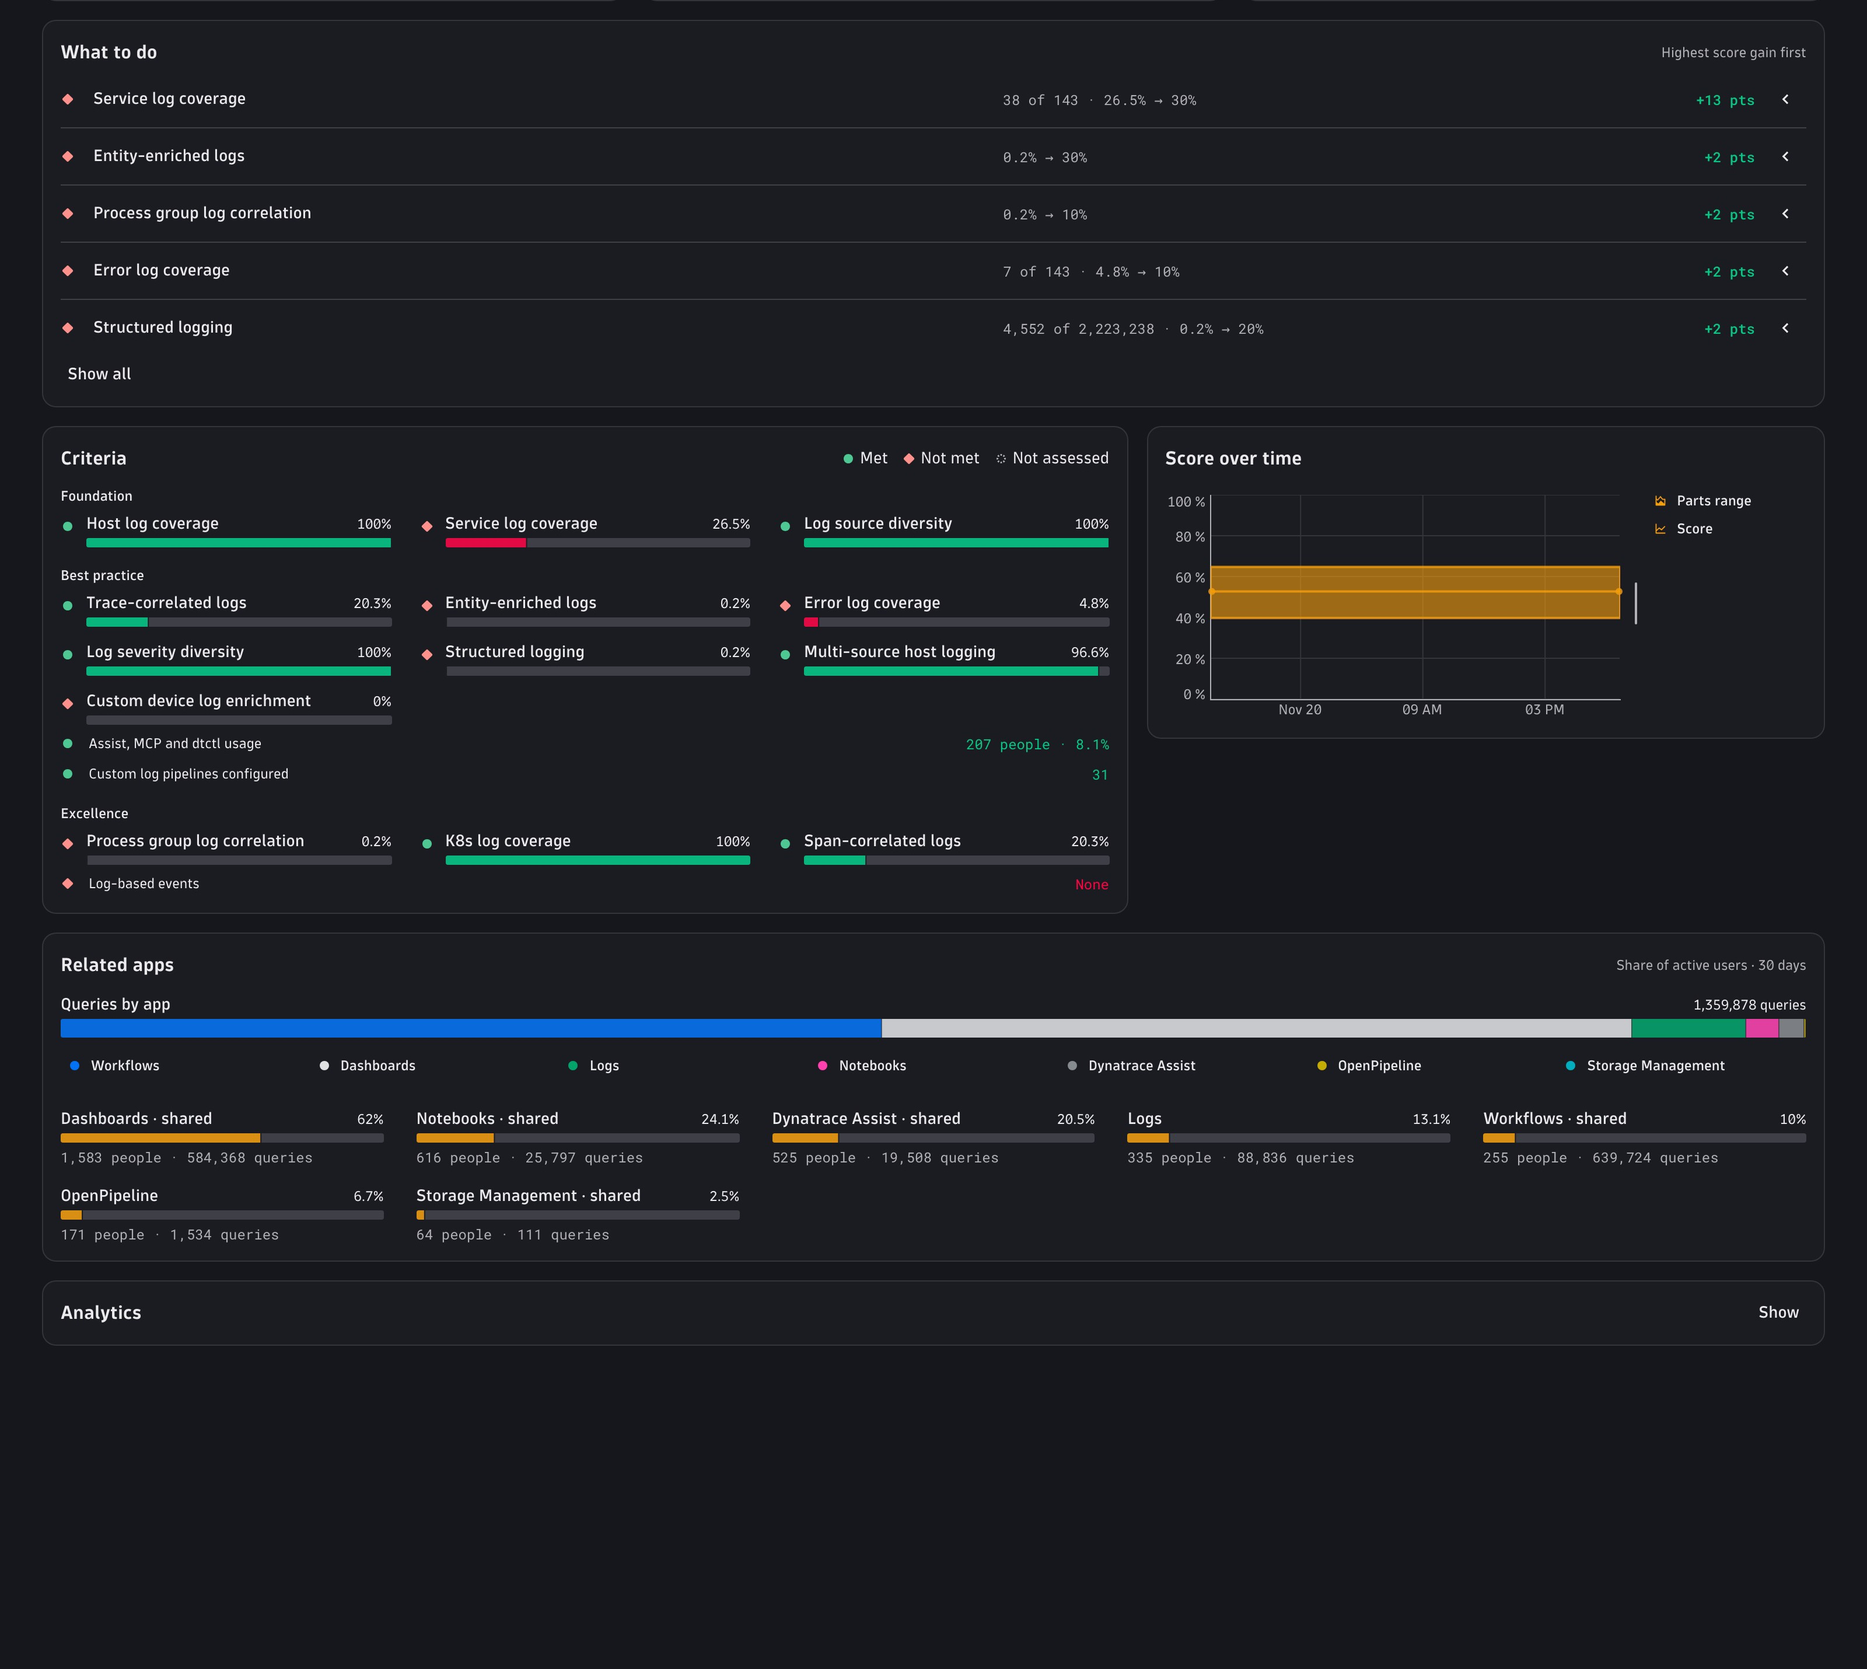
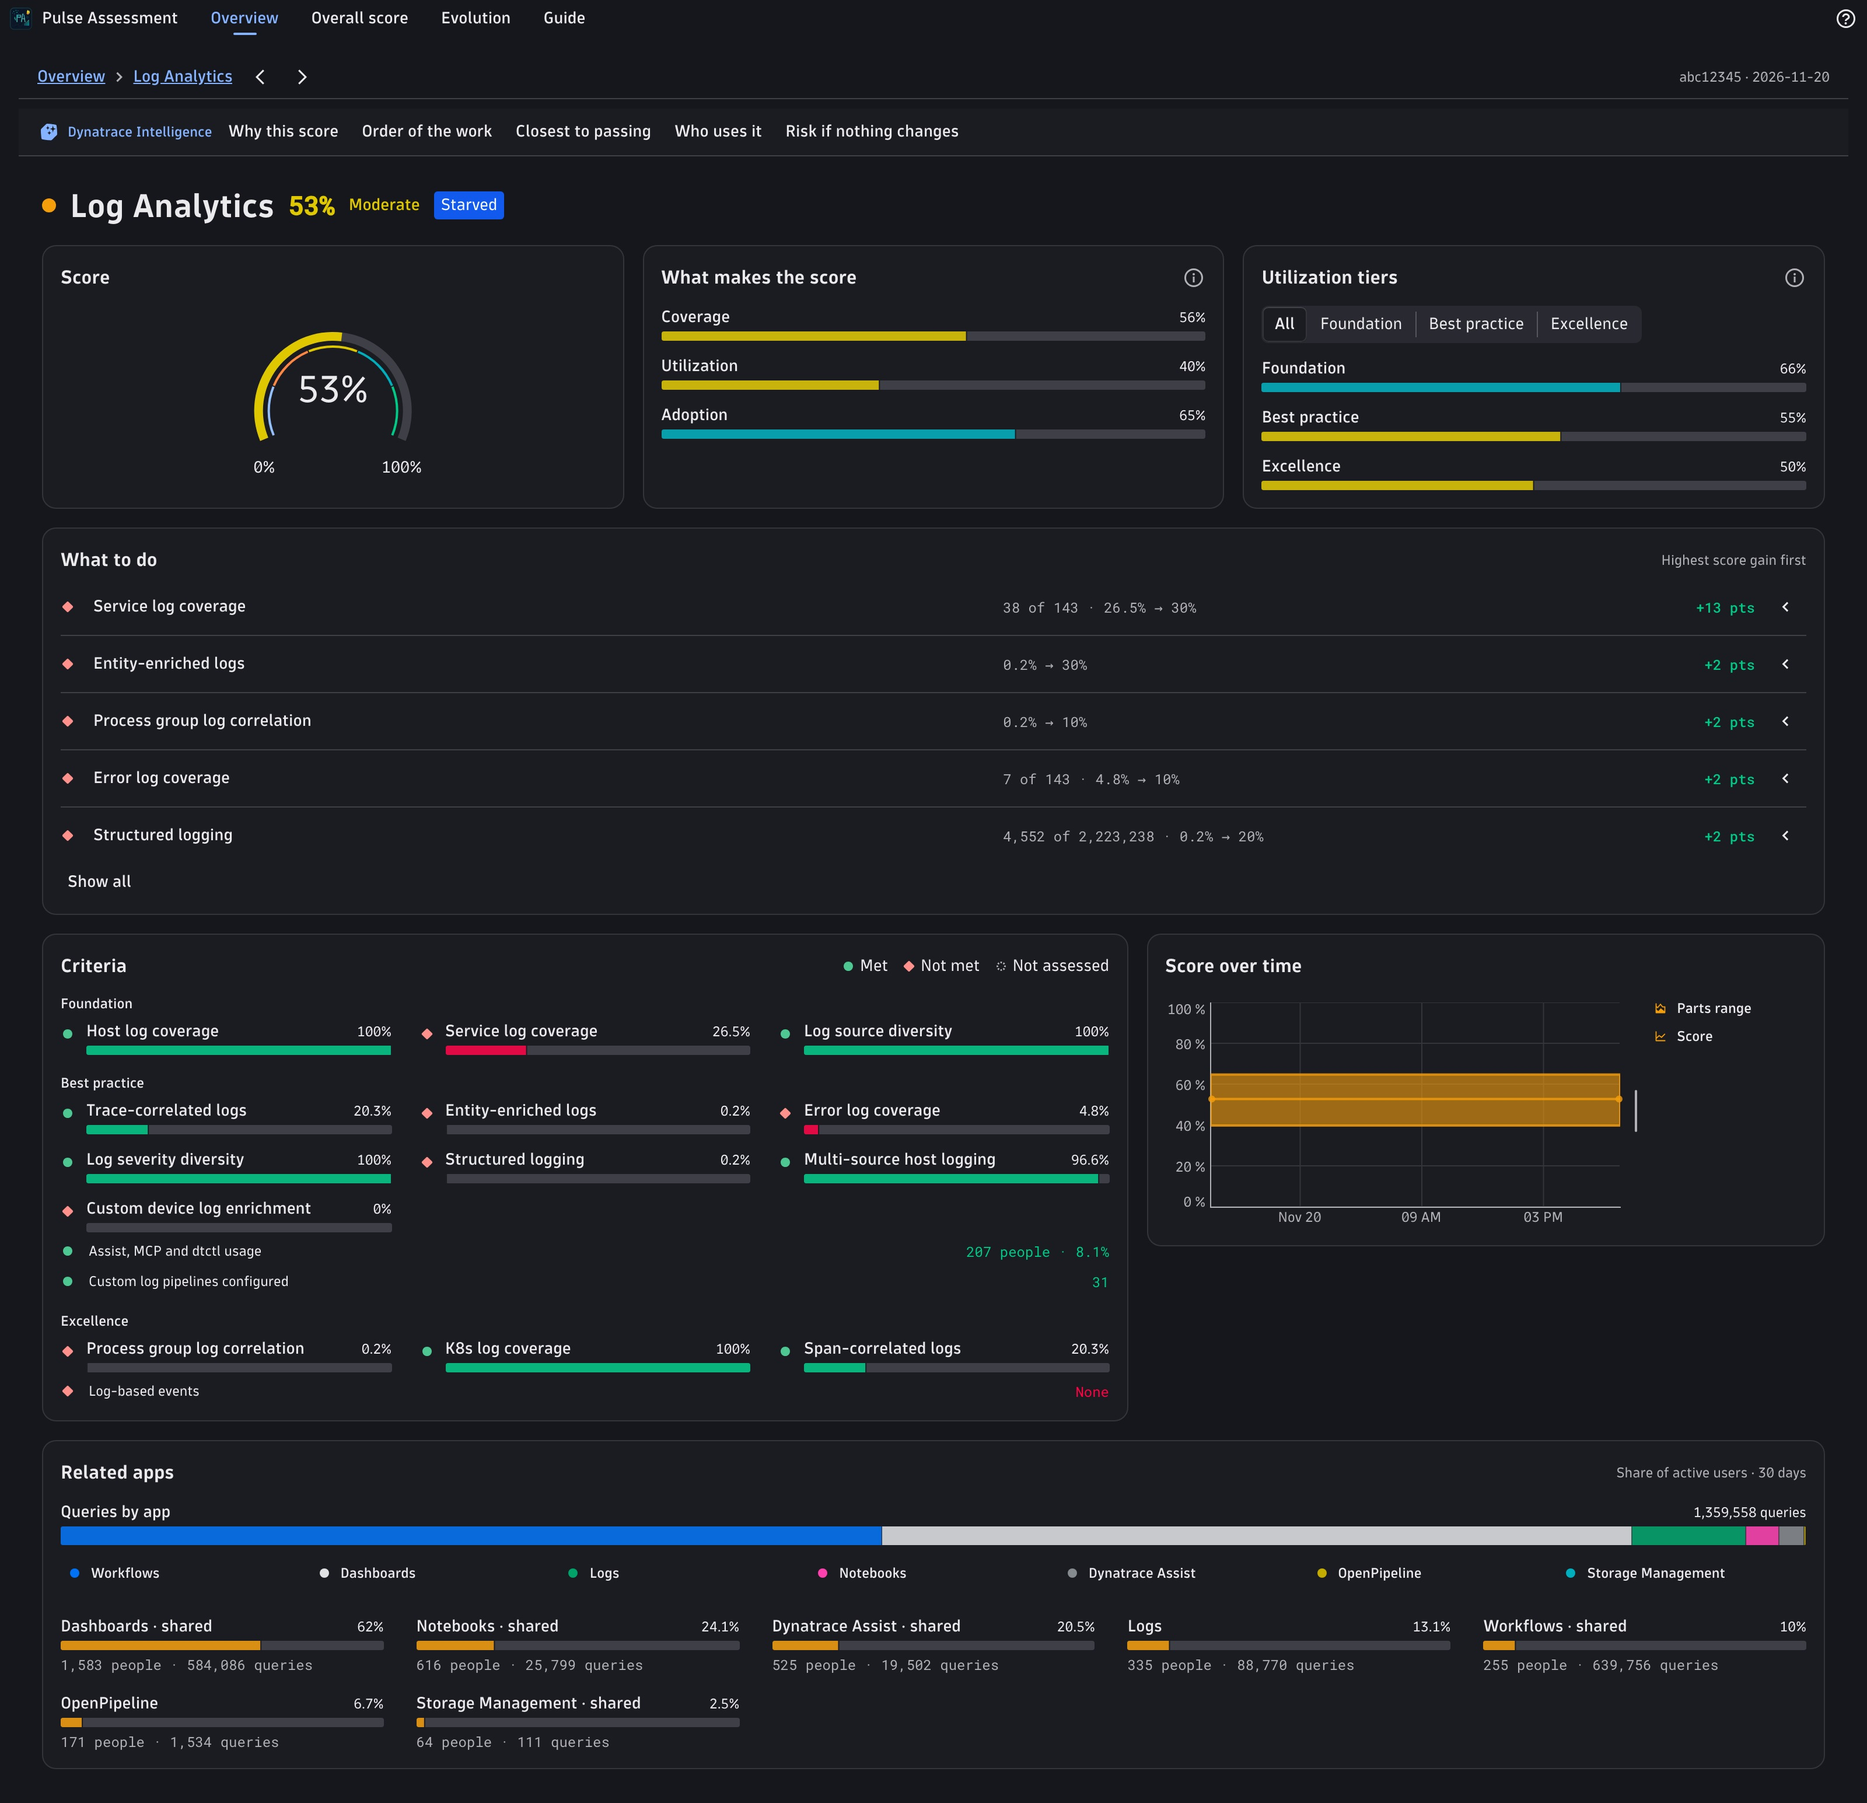
feat: remove the Analytics panel from the capability page (v3.0.5)
It repeated the criteria above it as a table. The same data, with the
DQL of each criterion, stays in the Criteria detail report and in the
raw data export.

diff --git a/ui/app/pages/CapabilityDetailPage.tsx b/ui/app/pages/CapabilityDetailPage.tsx
@@ -10,7 +10,6 @@
 import { ToggleButtonGroup } from "@dynatrace/strato-components/forms";
 import React, { useEffect, useMemo, useState } from "react";
 import { useNavigate, useParams } from "react-router-dom";
-import { useCurrentTheme } from "@dynatrace/strato-components/core";
 import Colors from "@dynatrace/strato-design-tokens/colors";
 import Typography from "@dynatrace/strato-design-tokens/typography";
 import { Button } from "@dynatrace/strato-components/buttons";
@@ -18,7 +17,6 @@ import { ExternalLink, Heading, Text } from "@dynatrace/strato-components/typogr
 import { Flex, Surface, Grid } from "@dynatrace/strato-components/layouts";
 import { Chip, EmptyState, HealthIndicator, InformationOverlay, SkeletonText, Accordion } from "@dynatrace/strato-components/content";
 import { Breadcrumbs } from "@dynatrace/strato-components/navigation";
-import { DataTable } from "@dynatrace/strato-components/tables";
 import { GaugeChart, MeterBarChart, MultiMeterBarChart, TimeseriesChart } from "@dynatrace/strato-components/charts";
 import type { CoverageData, CapabilityResult } from "../hooks/useCoverageData";
 import type { useAssessmentHistory } from "../hooks/useAssessmentHistory";
@@ -26,7 +24,6 @@ import { NO_ADOPTION } from "../hooks/useAppAdoption";
 import { IntelligenceBar } from "../components/IntelligenceBar";
 import { LENS, capabilityQuestions, capabilityFacts } from "../ai/pageIntelligence";
 import { Tooltip } from "../components/Tooltip";
-import { CopyBtn } from "../components/CopyableQuery";
 import { diagnose } from "../diagnosis";
 import { passLine } from "../passLine";
 import { useAppNames, useInstalledApps } from "../hooks/useAppNames";
@@ -107,30 +104,6 @@ function fmtFloor(r: Row): string {
   if (isPresence(r)) return "≥1";
   const f = passFloor(r.thresholds);
   return f == null ? "—" : r.isRatio ? `${f}%` : String(f);
-}
-
-/** Source of one DQL statement. */
-function sourceOfOne(query: string): { label: string; cost: string } {
-  const q = query.toLowerCase();
-  if (/^\s*(settings:count|slos:count)\b/.test(q)) return { label: "Settings", cost: "No query charge" };
-  if (/^\s*fieldssnapshot\b/.test(q)) return { label: "Field snapshot", cost: "No query charge" };
-  if (/^\s*timeseries\b/.test(q)) return { label: "Metrics", cost: "No query charge" };
-  if (/\bfetch\s+dt\.davis\.problems\b/.test(q)) return { label: "Davis problems", cost: "Included" };
-  if (/\bfetch\s+dt\.system\.events\b/.test(q)) return { label: "System events", cost: "—" };
-  if (/\bfetch\s+dt\.entity\./.test(q)) return { label: "Entities", cost: "—" };
-  if (/\bfetch\s+logs\b/.test(q)) return { label: "Logs", cost: "Billed per GiB" };
-  if (/\bfetch\s+spans\b/.test(q)) return { label: "Spans", cost: "Billed per GiB" };
-  if (/\bfetch\s+bizevents\b/.test(q)) return { label: "Business events", cost: "Billed per GiB" };
-  if (/\bfetch\s+(security\.)?events\b/.test(q)) return { label: "Events", cost: "Billed per GiB" };
-  return { label: "Other", cost: "—" };
-}
-
-/** A ratio criterion reads two sources: the numerator names it, and it is
- *  billed when either side is. */
-function sourceOf(query: string): { label: string; cost: string } {
-  const sides = query.split("\n÷ ").map(sourceOfOne);
-  const billed = sides.find(x => x.cost === "Billed per GiB");
-  return { label: sides[0].label, cost: billed ? billed.cost : sides[0].cost };
 }
 
 /** Ratio criteria carry "A\n÷ B"; copy both as runnable DQL. */
@@ -298,7 +271,7 @@ const ActionList: React.FC<{ cap: CapabilityResult; ctx: ReportContext; tier?: s
   };
   const openQuery = (r: Row) => {
     try { sendIntent({ "dt.query": dqlForCopy(r.query) }); setNote(null); }
-    catch { setNote("Opening a notebook needs the app running inside Dynatrace. Use Copy DQL in Analytics instead."); }
+    catch { setNote("Opening a notebook needs the app running inside Dynatrace."); }
   };
 
   return (
@@ -373,9 +346,7 @@ interface Props {
 export const CapabilityDetailPage: React.FC<Props> = ({ coverageData, history }) => {
   const { name = "" } = useParams();
   const navigate = useNavigate();
-  const dk = useCurrentTheme() === "dark";
-  const [showAnalytics, setShowAnalytics] = useState(false);
-  /** Tier picked in "Utilization tiers": narrows What to do, Criteria and Analytics. */
+  /** Tier picked in "Utilization tiers": narrows What to do and Criteria. */
   const [tier, setTier] = useState<string | null>(null);
   useEffect(() => { setTier(null); }, [name]);
   const appName = useAppNames();
@@ -429,23 +400,6 @@ export const CapabilityDetailPage: React.FC<Props> = ({ coverageData, history })
     notAssessedCount: cap.notAssessedCount,
     totalCount: cap.criteriaResults.length,
   });
-  const analyticsColumns = [
-    { id: "state", header: "State", width: 110, accessor: (r: Row) => STATE_META[rowState(r)].word, cell: ({ rowData }: { rowData: Row }) => <DataTable.DefaultCell><StateMark state={rowState(rowData)} label /></DataTable.DefaultCell> },
-    { id: "criterion", header: "Criterion", minWidth: 160, autoWidth: true, accessor: (r: Row) => `${r.label.replace(/\s*\(%\)\s*$/, "")}${r.proxied ? " ≈" : ""}` },
-    { id: "tier", header: "Tier", width: 120, accessor: (r: Row) => TIERS.find(t => t.key === r.tier)?.label ?? "" },
-    { id: "value", header: "Value", width: 100, alignment: "right" as const, accessor: (r: Row) => fmtValue(r) },
-    { id: "target", header: "Pass from", width: 100, alignment: "right" as const, accessor: (r: Row) => fmtFloor(r) },
-    { id: "source", header: "Source", width: 140, accessor: (r: Row) => sourceOf(r.query).label },
-    { id: "cost", header: "Query cost", width: 140, accessor: (r: Row) => sourceOf(r.query).cost },
-    { id: "dql", header: "DQL", width: 170, disableSorting: true, accessor: (r: Row) => dqlForCopy(r.query), cell: ({ rowData }: { rowData: Row }) => (
-      <DataTable.DefaultCell>
-        <Flex gap={6} alignItems="center">
-          <CopyBtn text={dqlForCopy(rowData.query)} dk={dk} small label="Copy DQL" />
-          {CRITERION_ACTIONS[rowData.id]?.docUrl && <ExternalLink href={CRITERION_ACTIONS[rowData.id].docUrl}>Docs</ExternalLink>}
-        </Flex>
-      </DataTable.DefaultCell>
-    ) },
-  ];
   const prev = caps[(idx - 1 + caps.length) % caps.length];
   const next = caps[(idx + 1) % caps.length];
   const go = (c: CapabilityResult) => navigate(`/capability/${encodeURIComponent(c.name.replace(/\//g, "~"))}`);
@@ -587,15 +541,6 @@ export const CapabilityDetailPage: React.FC<Props> = ({ coverageData, history })
                 </Grid>
               </Flex>
             )}
-        </Panel>
-
-        {/* Analytics table */}
-        <Panel title="Analytics" right={<Flex alignItems="center" gap={8}>{clearTier}<Button size="condensed" onClick={() => setShowAnalytics(v => !v)}>{showAnalytics ? "Hide" : "Show"}</Button></Flex>}>
-          {showAnalytics && (
-          <DataTable data={rows} columns={analyticsColumns} fullWidth sortable defaultLineWrap variant={{ rowDensity: "condensed" }}>
-            <DataTable.Toolbar><DataTable.DownloadData /></DataTable.Toolbar>
-          </DataTable>
-          )}
         </Panel>
 
 

diff --git a/ui/app/appVersion.ts b/ui/app/appVersion.ts
@@ -1,1 +1,1 @@
-export const APP_VERSION = "3.0.4";
+export const APP_VERSION = "3.0.5";

diff --git a/docs/DESIGN-SYSTEM.md b/docs/DESIGN-SYSTEM.md
@@ -1,6 +1,6 @@
 # Pulse Assessment design system
 
-Describes the UI as the code under `ui/app/` builds it in version 3.0.4 (`ui/app/appVersion.ts`). Every statement here was read from the code; when the code and this file disagree, the code is right.
+Describes the UI as the code under `ui/app/` builds it in version 3.0.5 (`ui/app/appVersion.ts`). Every statement here was read from the code; when the code and this file disagree, the code is right.
 
 Stack: React 18, `react-router-dom` 6, `@dynatrace/strato-components` ^3.18, `@dynatrace/strato-design-tokens`, `@dynatrace/strato-icons`. There is no CSS, SCSS or style file under `ui/`: all styling is Strato component props plus inline `style` objects that read Strato tokens. The only CSS rules are in a `<style>` element inside the radar SVG (entry animation and focus outline).
 
@@ -63,7 +63,6 @@ Components in `ui/app/components/`:
 | `DpsCostBadge.tsx` | The "Run details" text with a dotted underline; all run numbers are in its tooltip |
 | `ScaleTierBanner.tsx` | Warning banner for sampled runs with three tier buttons; renders nothing on the Exact tier |
 | `TraceProxyBanner.tsx` | Warning banner shown when trace criteria are read from metrics and topology |
-| `CopyableQuery.tsx` | Only `CopyBtn` is used (the "Copy DQL" button in the Analytics table) |
 | `ErrorBoundary.tsx` | Full-page fallback for an uncaught render error |
 
 ### Overview (`/`, `CoverageAssessment.tsx`)
@@ -98,7 +97,6 @@ Selecting a tier filters Capabilities and What to do; a `Chip` with `Chip.Delete
 - "Criteria": grouped by tier. Ratio criteria are a `MeterBarChart` each with the full name above the bar; presence criteria are rows of mark, name and reading. The panel header carries the three `StateMark`s as a legend.
 - "Score over time": `TrendChart` in the capability colour.
 - "Related apps": a `MultiMeterBarChart` "Queries by app" with a legend, then one `MeterBarChart` per app with people and queries in a mono line.
-- "Analytics": hidden until "Show"; a `DataTable` with State, Criterion, Tier, Value, Pass from, Source, Query cost, DQL (`CopyBtn` and a Docs link), and `DataTable.DownloadData` in the toolbar.
 
 ### Evolution (`/compare`, `EvolutionPage.tsx`)
 
@@ -125,7 +123,7 @@ A reading page: one centred column, 960px wide at most, paragraphs capped at 760
 | Single value bar | `MeterBarChart` (`charts`) | Parts, tiers, capabilities, criteria, apps |
 | Split of a total | `MultiMeterBarChart` (`charts`) | Queries by app |
 | Score history | `TimeseriesChart` with `.Line`, `.Band`, `.YAxis` (`charts`) | `TrendChart` |
-| Tables | `DataTable` with `.Pagination`, `.Toolbar`, `.DownloadData`, `.DefaultCell` (`tables`) | What to do, Analytics, Criteria that changed |
+| Tables | `DataTable` with `.Pagination`, `.Toolbar`, `.DownloadData`, `.DefaultCell` (`tables`) | What to do, Criteria that changed, Closest to passing |
 | Labels and filters | `Chip` with `.DeleteButton`, `.Prefix` (`content`) | Verdicts, filters, change kinds, band legend |
 | State | `HealthIndicator` (`content`) | `StateMark` |
 | Disclosure | `Accordion` (`content`) | What to do, What caused the change, What is measured |
@@ -275,7 +273,6 @@ Labels, names, headings, chips, buttons and table cells stay in the text font. S
 | Missing value | "—" |
 | Missing data | "Adoption not available", "No usage data", "No saved run yet", "None" |
 | Scale tier | Exact, Large, xLarge |
-| Proxied criterion | "≈" after the criterion name in the Analytics table |
 
 ## 7. UI rules
 

diff --git a/docs/SCORING-CALCULATIONS.md b/docs/SCORING-CALCULATIONS.md
@@ -1,7 +1,7 @@
 # Pulse Assessment: scoring calculations
 
 How the app turns query results into scores, bands, verdicts and "gain if met" points.
-This document describes version 3.0.4 (`app.config.json`). The code is the source of truth;
+This document describes version 3.0.5 (`app.config.json`). The code is the source of truth;
 every section names the file it was checked against.
 
 Summary of the model:
@@ -92,7 +92,7 @@ Source: `ui/app/hooks/useCoverageData.ts` (`tierCounts`, `FOUNDATION_WEIGHT`, `B
 Every criterion belongs to one tier (`CRITERION_TIERS`; an id missing from the map falls back to Foundation).
 Not assessed criteria are left out of the tier totals as well.
 
-In the 3.0.4 catalog every capability has criteria in all three tiers. Application Security, Threat Observability,
+In the 3.0.5 catalog every capability has criteria in all three tiers. Application Security, Threat Observability,
 Software Delivery and Platform Governance have a single Foundation criterion, so their Foundation share is 0 or 1.
 
 ### 3.2 Formula
@@ -126,7 +126,7 @@ A tier with nothing assessed has a share of 0. Its weight is not redistributed.
 | Best practice | `effB = 0`, the Excellence gate stays closed | 60 |
 | Excellence | Its 15 points cannot be earned | 85 |
 
-With the 3.0.4 catalog a tier is empty only when all of its criteria are not assessed. Where Foundation
+With the 3.0.5 catalog a tier is empty only when all of its criteria are not assessed. Where Foundation
 has a single criterion and it is not assessed, utilization is 0.
 
 ## 4. Adoption

diff --git a/docs/ARCHITECTURE.md b/docs/ARCHITECTURE.md
@@ -1,6 +1,6 @@
 # Architecture
 
-This document describes Pulse Assessment 3.0.4 as the code under `ui/app/` implements it. Diagrams are in [ARCHITECTURE-DIAGRAM.md](ARCHITECTURE-DIAGRAM.md).
+This document describes Pulse Assessment 3.0.5 as the code under `ui/app/` implements it. Diagrams are in [ARCHITECTURE-DIAGRAM.md](ARCHITECTURE-DIAGRAM.md).
 
 ## Overview
 
@@ -44,7 +44,7 @@ ui/
     ├── data/                  criterionTiers, criterionImportance, criterionGaps, appCapabilityMap
     ├── components/            IntelligenceBar, PulseRadar, SmartReportModal, ScaleTierBanner,
     │                          TraceProxyBanner, DpsCostBadge, ExpandableChartModal,
-    │                          CopyableQuery, Tooltip, ErrorBoundary
+    │                          Tooltip, ErrorBoundary
     ├── pages/                 CoverageAssessment, ExecutiveSummary, EvolutionPage,
     │                          GuidePage, CapabilityDetailPage
     └── utils/colors.ts        Score bands and their colors

diff --git a/docs/ARCHITECTURE-DIAGRAM.md b/docs/ARCHITECTURE-DIAGRAM.md
@@ -1,6 +1,6 @@
 # Architecture diagrams
 
-Mermaid diagrams for Pulse Assessment 3.0.4. Each one follows the code under `ui/app/`; the text reference is [ARCHITECTURE.md](ARCHITECTURE.md). GitHub and the VS Code Markdown preview (with a Mermaid extension) render them directly.
+Mermaid diagrams for Pulse Assessment 3.0.5. Each one follows the code under `ui/app/`; the text reference is [ARCHITECTURE.md](ARCHITECTURE.md). GitHub and the VS Code Markdown preview (with a Mermaid extension) render them directly.
 
 ## 1. Module map
 

diff --git a/CHANGELOG.md b/CHANGELOG.md
@@ -4,6 +4,11 @@ All notable changes to the Pulse Assessment app are documented in this file.
 
 The format is based on [Keep a Changelog](https://keepachangelog.com/en/1.1.0/).
 
+## [3.0.5] — 2026-11-20
+
+### Removed
+- The Analytics panel of the capability page. It repeated the criteria above it as a table; the same data, with the DQL of each criterion, stays in the Criteria detail report and in the raw data export.
+
 ## [3.0.4] — 2026-11-20
 
 ### Changed
